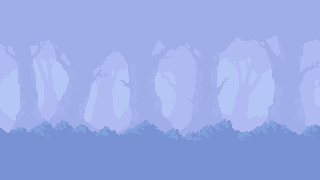
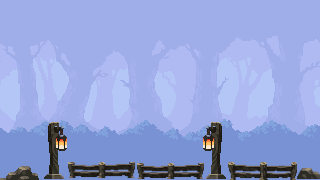
attacks/design updates

Changed region(s): [[0.0, 0.6667, 1.0, 1.0]]

diff --git a/index.js b/index.js
@@ -11,13 +11,13 @@ const background = new Player({
         x:0,
         y:0
     },
-    imageSrc:'./img/background/background_layer_1.png',
-     scale: 4
+    imageSrc:'./img/background/background_layer_104.png',
+     scale: 3.2
 })
 
   const playerOne = new Character({
     position: {
-    x: 0,
+    x: 30,
     y: 0
  },
     velocity: {
@@ -33,8 +33,8 @@ const background = new Player({
     framesMax: 8,
     scale: 2.5,
     offset: {
-     x: 165,
-     y: 60
+    x: 215,
+    y: 95
  },
     sprites: {
     idle: {
@@ -57,13 +57,21 @@ const background = new Player({
     imageSrc: './img/PlayerOne/Sprites/Attack1.png',
     framesMax: 6
 }
- }
+ },
+ attackBox: {
+    offset: {
+        x:100,
+        y:50,
+    },
+    width: 160,
+    height: 50
+}
 })
 
 
  const playerTwo = new Character({
     position:{
-    x: 400,
+    x: 930,
     y: 100
  },
 velocity:{
@@ -79,8 +87,8 @@ imageSrc: './img/PlayerTwo/Sprites/Idle.png',
  framesMax: 4,
  scale: 2.5,
  offset: {
-    x: -300,
-    y: 77
+    x: 215,
+    y: 110
  },
  sprites: {
     idle: {
@@ -103,7 +111,15 @@ imageSrc: './img/PlayerTwo/Sprites/Idle.png',
     imageSrc: './img/PlayerTwo/Sprites/Attack1.png',
     framesMax: 4
 }
- }
+ },
+ attackBox: {
+    offset: {
+        x:-170,
+        y:50,
+    },
+    width: 170,
+    height: 50
+}
 })
 
  const keys = {
@@ -169,32 +185,40 @@ if (keys.ArrowLeft.pressed && playerTwo.lastKey === 'ArrowLeft'){
     } else if (playerTwo.velocity.y > 0){
         playerTwo.switchSprite('fall')
     }
-
+    
+ 
 if (
     rectangularCollision({
         rectangle1: playerOne,
         rectangle2: playerTwo
     })
    &&
-    playerOne.isAttacking)
+    playerOne.isAttacking && playerOne.framesCurrent === 4)
      {
         playerOne.isAttacking = false
         playerTwo.health -= 20
         document.querySelector('#playerTwoHealth').style.width = playerTwo.health + "%"
     }
  
+     if ( playerOne.isAttacking && playerOne.framesCurrent ===4 ){
+        playerOne.isAttacking = false
+     }
  if (
     rectangularCollision({
         rectangle1: playerTwo,
         rectangle2: playerOne
     })
    &&
-    playerTwo.isAttacking
+    playerTwo.isAttacking && playerTwo.framesCurrent === 2
     ) {
         playerTwo.isAttacking = false
         playerOne.health -= 20
         document.querySelector('#playerOneHealth').style.width = playerOne.health + "%"
     }
+ if ( playerTwo.isAttacking && playerTwo.framesCurrent ===4 ){
+        playerTwo.isAttacking = false
+     }
+
      if (playerTwo.health <= 0 || playerOne.health <= 0){
         winner({playerOne, playerTwo, timerId})
      }

diff --git a/js/classes.js b/js/classes.js
@@ -55,11 +55,12 @@ class Character extends Player {
     constructor({
         position,
         velocity,
-        offset = {x:0, y:0}, 
+        offset = {x: 0, y: 0}, 
         imageSrc,
         scale = 1, 
         framesMax = 1,
-        sprites
+        sprites,
+        attackBox = { offset: {}, width: undefined, height: undefined}
         }) {
         super({
             imageSrc,
@@ -79,10 +80,15 @@ class Character extends Player {
                 x: this.position.x,
                 y: this.position.y
             },
-            offset,
-              width: 100,
-              height: 50
+            //  offset,
+            //   width: 100,
+            //   height: 50
+            offset: attackBox.offset,
+            width: attackBox.width,
+            height: attackBox.height,
         }
+        
+
         this.color
         this.framesCurrent = 0
         this.framesElapsed = 0
@@ -102,7 +108,9 @@ class Character extends Player {
         this.animateFrames()
 
         this.attackBox.position.x = this.position.x + this.attackBox.offset.x
-        this.attackBox.position.y = this.position.y 
+        this.attackBox.position.y = this.position.y + this.attackBox.offset.y
+
+        c.fillRect(this.attackBox.position.x, this.attackBox.position.y, this.attackBox.width, this.attackBox.height)
 
         this.position.x += this.velocity.x
         this.position.y += this.velocity.y
@@ -116,9 +124,9 @@ class Character extends Player {
     attack(){
         this.switchSprite('attack1')
         this.isAttacking = true
-        setTimeout(() => {
-            this.isAttacking = false
-        }, 100)
+        // setTimeout(() => {
+        //     this.isAttacking = false
+        // }, 100)
     }
 
     switchSprite(sprite){
